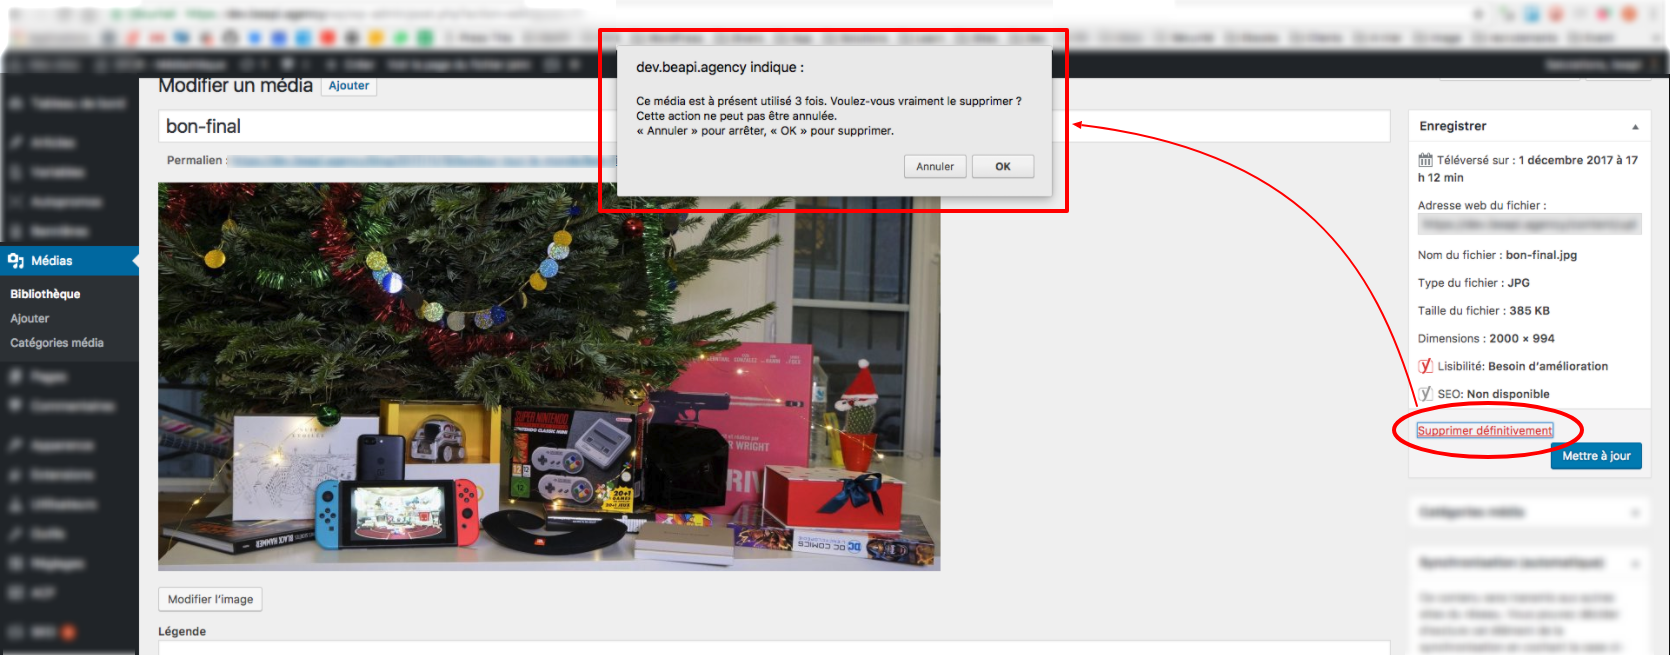
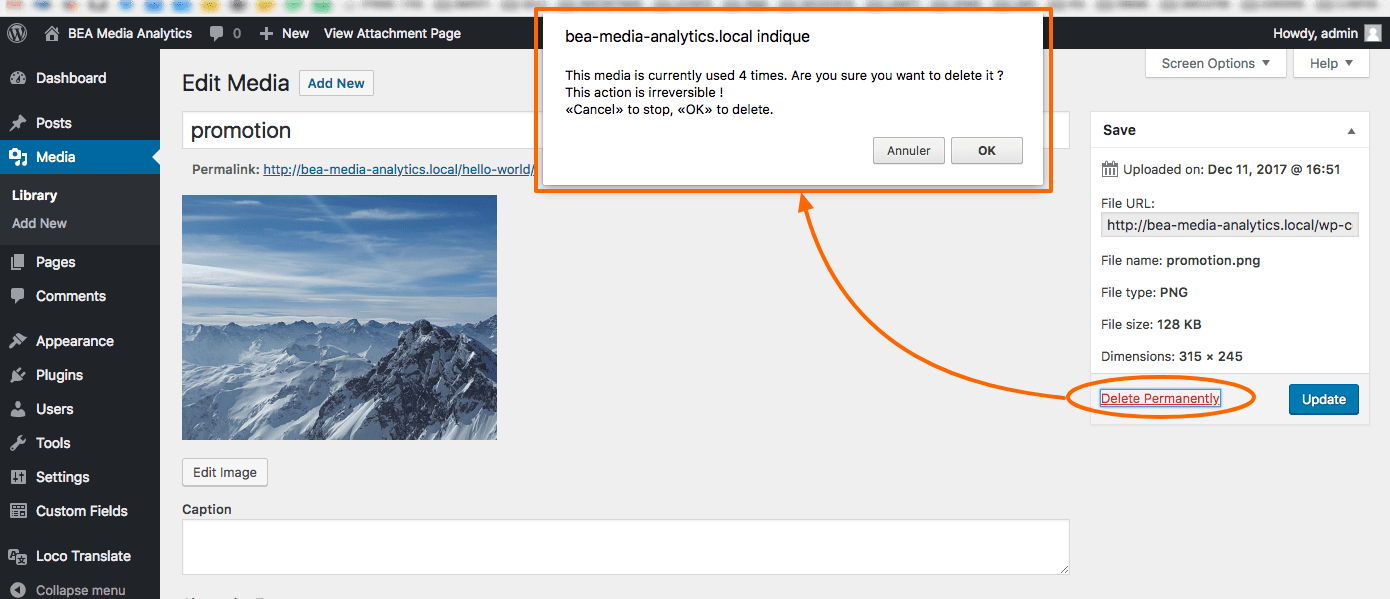
#37 : prefer english screenshots

diff --git a/CHANGELOG.md b/CHANGELOG.md
@@ -2,6 +2,8 @@
 
 ## 2.0.0 - 02 Feb 2018
 * Rename plugin from "BEA - Find Media" into "BEA - Media Analytics"
+* Improve readme
+* English screenshots
 
 ## 1.0.1 - 12 Dec 2017
 * On activation, handle force indexation.
